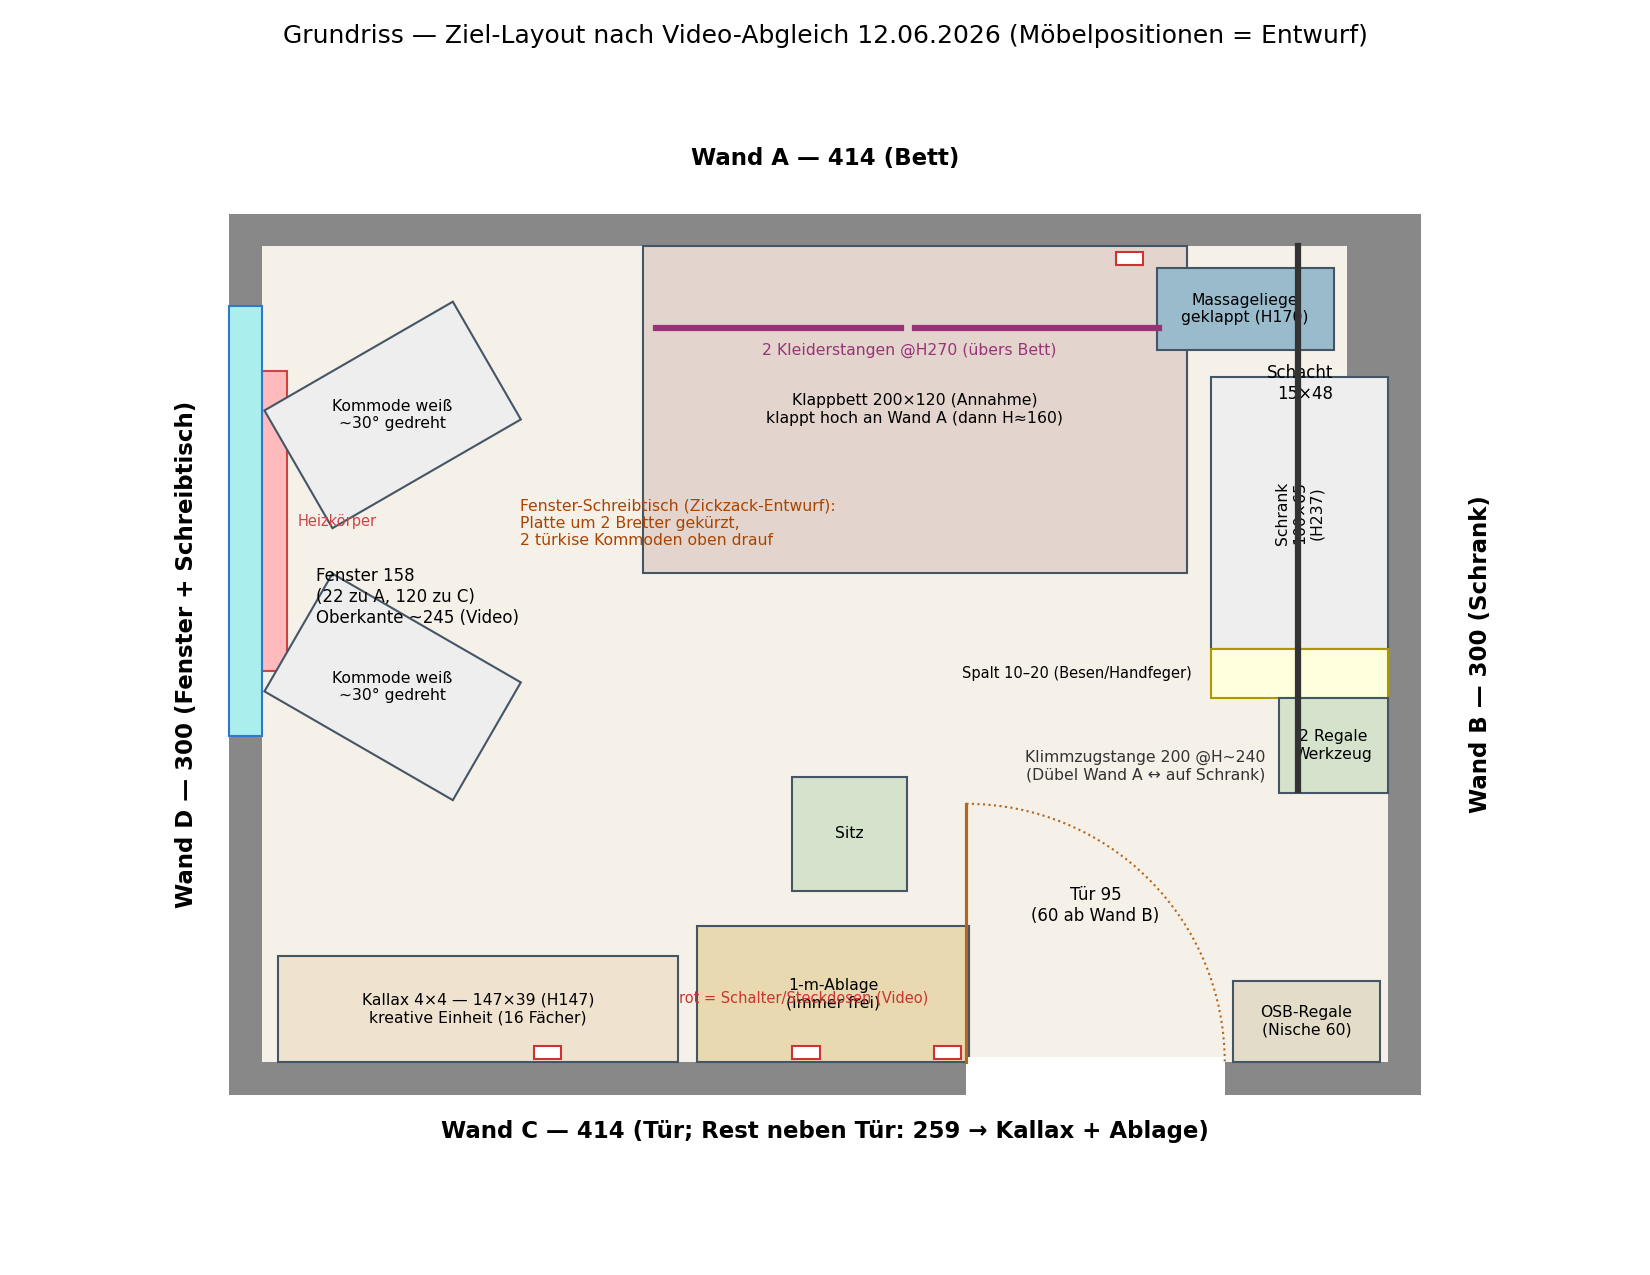
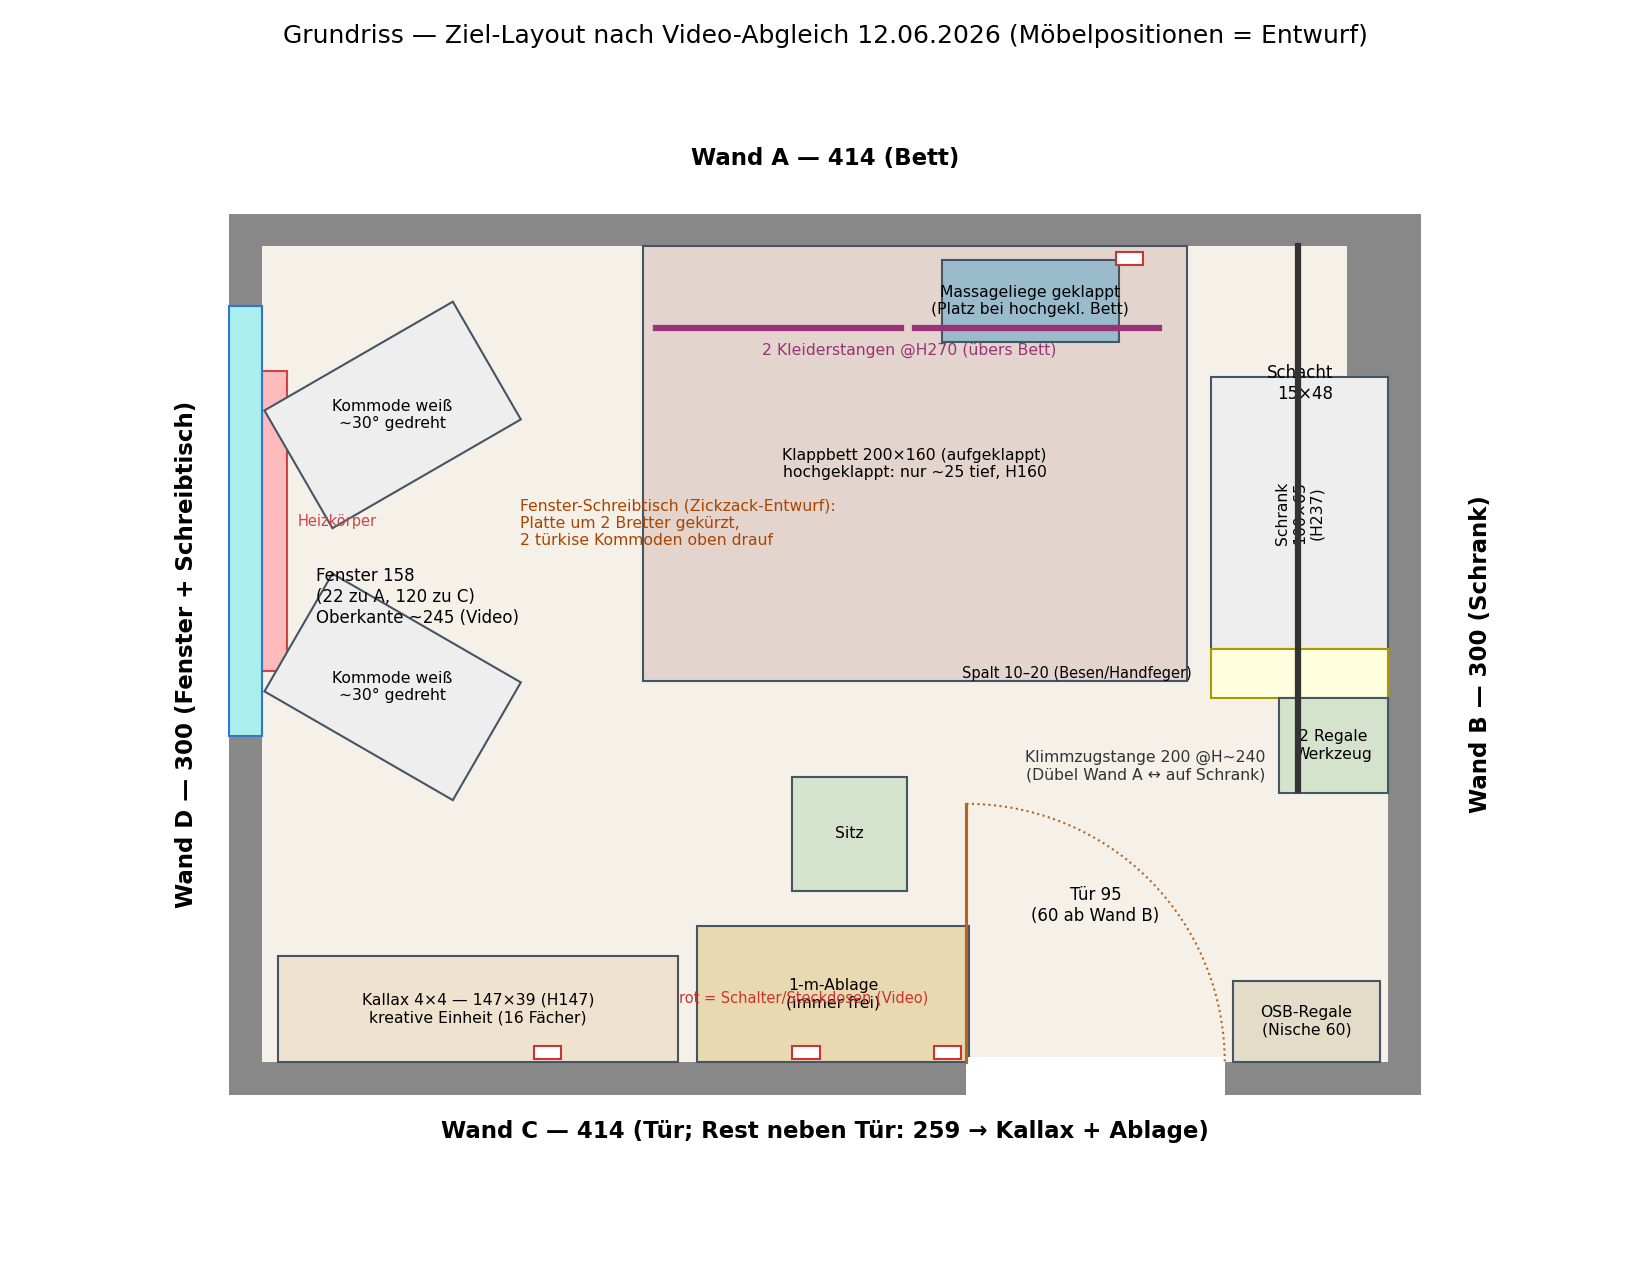
Maße nach Dimitris-Rückfragen final: Bett 200x160, türkis 40x50x55, Schrank 100
- Klappbett-Grundflaeche auf 200x160 gesetzt (war Annahme 120). Doppelnutzungs-
  Hinweis: hochgeklappt nur ~25 tief -> Flaeche frei fuer Massageliege + Stange.
- Tuerkise Kommode 40x50x55 bestaetigt (Video-Eindruck groesser war Perspektive).
- Grosser Schrank 100 breit bestaetigt; Spiegel ist auf die Schranktuer geklebt.
- masse.md: 3 offene Punkte aufgeloest, Massageliege im Grundriss neu platziert.

Changed region(s): [[0.3709, 0.4282, 0.7418, 0.5506], [0.5564, 0.1835, 0.8345, 0.2753], [0.4636, 0.3059, 0.6491, 0.3976]]

diff --git a/renovierung/index.html b/renovierung/index.html
@@ -166,11 +166,11 @@ function rotBox(w, h, d, cx, y, cz, angleDeg, mat, parent = room) {
 // Klappbett an Wand A (Video: hochklappbar, Lattenrost auf Holzbalken, Matratze ~15;
 // hochgeklappt ~160 hoch. Grundfläche ANNAHME 200×120). „Ganz ran" an Wand A,
 // rechtes Ende links neben der Klimmzugstange; Ecke D/A bleibt frei für den Fenster-Schreibtisch.
-const bedX = 1.40, bedL = 2.0, bedW = 1.2;
+const bedX = 1.40, bedL = 2.0, bedW = 1.6;                    // 200×160 (bestätigt)
 box(bedL, .22, bedW, bedX, 0, 0, matWood);                   // Holzbalken + Lattenrost
 box(bedL - .04, .15, bedW - .04, bedX + .02, .22, .02,
   new THREE.MeshStandardMaterial({ color: 0xdde6f0 }));      // Matratze ~15
-label('Klappbett 200×120 (Annahme) — klappt hoch an Wand A, dann H≈160', bedX + 1.0, .65, .6, true);
+label('Klappbett 200×160 — aufgeklappt. Hochgeklappt: nur ~25 tief, 160 hoch an Wand A', bedX + 1.0, .5, .8);
 
 // 2 Kleiderstangen @270 übers Bett (je ~90, nebeneinander), 30 von Wand A
 const matRail = new THREE.MeshStandardMaterial({ color: 0x884466, metalness: .6, roughness: .3 });
@@ -203,9 +203,10 @@ pull.position.set(RX - .33, 2.42, 1.0);
 room.add(pull);
 label('Klimmzugstange 200 Ø5 @~240: Dübel Wand A ↔ liegt auf Schrank (Entwurf)', RX - .33, 2.58, .8, true);
 
-// Massageliege geklappt (65 breit, klappbar auf 170) zwischen Wand A und Schrank, unter der Stange (Ton 11:33)
-box(.65, 1.70, .30, RX - .85, 0, .08, new THREE.MeshStandardMaterial({ color: 0x3a5a7a }));
-label('Massageliege geklappt 65×~30 H170 (Entwurf)', RX - .55, 1.85, .25, true);
+// Massageliege geklappt (65 breit, klappbar auf 170) — Platz dafür entsteht, wenn das
+// Bett hochgeklappt ist (Ton 11:33: "zwischen Wand und Schrank, darüber die Klimmzugstange")
+box(.65, 1.70, .30, 2.55, 0, .05, new THREE.MeshStandardMaterial({ color: 0x3a5a7a }));
+label('Massageliege geklappt 65×30 H170 — Platz bei hochgeklapptem Bett (Entwurf)', 2.55, 1.85, .2, true);
 
 // Kallax 4×4 (147×39×147, 16 Fächer) → Ziel: Wand C („kreative Einheit")
 box(1.47, 1.47, .39, .06, 0, RZ - .39, matKallax);

diff --git a/renovierung/grundriss.py b/renovierung/grundriss.py
@@ -51,8 +51,8 @@ def moebel(x, y, w, h, label, color="#cdd8e3", rot_label=False, angle=0):
 # --- Ziel-Layout (Video-Abgleich 12.06.2026; Positionen = ENTWURF) ---
 
 # Klappbett an Wand A („ganz ran"), rechtes Ende links neben der Klimmzugstange;
-# Ecke D/A bleibt frei für den Fenster-Schreibtisch. Grundfläche Annahme 200×120
-moebel(140, 0, 200, 120, "Klappbett 200×120 (Annahme)\nklappt hoch an Wand A (dann H≈160)", "#e3d5cd")
+# Ecke D/A bleibt frei für den Fenster-Schreibtisch. Grundfläche 200×160 (bestätigt)
+moebel(140, 0, 200, 160, "Klappbett 200×160 (aufgeklappt)\nhochgeklappt: nur ~25 tief, H160", "#e3d5cd")
 
 # 2 Kleiderstangen @H270 übers Bett
 ax.plot([145, 235], [30, 30], color="#937", lw=3, zorder=5)
@@ -70,8 +70,8 @@ ax.plot([A - 33, A - 33], [0, 200], color="#333", lw=3, zorder=5)
 ax.annotate("Klimmzugstange 200 @H~240\n(Dübel Wand A ↔ auf Schrank)", (A - 45, 196), fontsize=7.5,
             ha="right", color="#333")
 
-# Massageliege geklappt zwischen Wand A und Schrank (Ton 11:33)
-moebel(A - 85, 8, 65, 30, "Massageliege\ngeklappt (H170)", "#9bc")
+# Massageliege geklappt — Platz entsteht bei hochgeklapptem Bett (Ton 11:33)
+moebel(250, 5, 65, 30, "Massageliege geklappt\n(Platz bei hochgekl. Bett)", "#9bc")
 
 # Kallax 4×4 an Wand C — kreative Einheit; rechts 1-m-Ablage (immer frei) + Sitz
 moebel(6, B - 39, 147, 39, "Kallax 4×4 — 147×39 (H147)\nkreative Einheit (16 Fächer)", "#efe3cf")

diff --git a/renovierung/masse.md b/renovierung/masse.md
@@ -39,12 +39,12 @@ _Video-Bestätigung: Dimitris benennt die Wände am Video-Ende (11:33–12:01) i
 
 | Möbel | B × T × H | Quelle / Anmerkung |
 |---|---|---|
-| **Bett (hochklappbar!)** | Grundfläche **Annahme ~200 × 100–140**; hochgeklappt ~160 hoch | Video: KEIN Hochbett. Lattenrost auf Holzbalken, Matratze ~15 cm, klappt gegen Wand A hoch, Seil-Sicherung an der Klimmzugstange. Im Video zerlegt/hochgeklappt (2–3 Lattenpaneele à ~200×100 lehnen an Wand A), Matratze derzeit am Boden |
+| **Bett (hochklappbar!)** | **200 × 160** (✅ Dimitris 13.06.); hochgeklappt ~160 hoch, nur ~25 tief | Video: KEIN Hochbett. Lattenrost auf Holzbalken, Matratze ~15 cm, klappt gegen Wand A hoch, Seil-Sicherung an der Klimmzugstange. **Doppelnutzung:** aufgeklappt belegt es 200×160, hochgeklappt wird die Fläche frei → Platz für Massageliege + Klimmzugstange darüber |
 | IKEA-Würfelregal | **Kallax 4×4 = 16 Fächer** ≈ 147 × 39 × 147 | Video bestätigt 16 Fächer; Dimitris-Schätzung 135 B × 145 H, Standardmaß 147×147, Tiefe 38 gemessen ✓. Steht aktuell auf weißem 2-türigem Unterschrank (~60–65 hoch) → Oberkante ~210 |
 | Regal unter dem Kallax | ~135–147 × ? × ~60–70 | Video/Ton: „ungefähr die Hälfte, ~70 hoch, Breite auch 1,35" |
-| Großer weißer Schrank (Wand B) | 100 × 65 × 237 | Chat. Video: 2-türig, Spiegelfront-Anteil; Gesamtblock wirkt ~150 breit → vermutlich Schrank (100) + separater Anlehn-Spiegel (~50) — **offene Frage** |
+| Großer weißer Schrank (Wand B) | 100 × 65 × 237 | Chat (✅ Dimitris 13.06.: **100 breit**; der Spiegel ist auf die Schranktür geklebt — kein separates Möbel) |
 | Weiße Kommode | 80 × 50 × 78 | Chat. Video: **2 Stück** (MALM-artig, je 3 Schubladen), als Schreibtisch-Unterbau an Wand C; evtl. eine 3. verdeckt |
-| Türkise Kommode | 40 × 50 × 55 | Chat. Video: **2 Stück AUF der Schreibtischplatte** (mit Etiketten). ⚠ Mehrere Analyse-Agenten schätzen sie größer (~50–60 B, 60–70 H) — **Maß-Widerspruch, mit Dimitris klären** |
+| Türkise Kommode | 40 × 50 × 55 | Chat (✅ Dimitris 13.06. bestätigt — Video-Eindruck „größer" war Perspektivtäuschung). Video: **2 Stück AUF der Schreibtischplatte** (mit Etiketten) |
 | Schreibtisch (Eigenbau) | Platte **200 lang** (Ton) + **30-cm-Modul** dahinter gesteckt (separat); Tiefe ~65 (Ton); auf den 2 weißen Kommoden, Paletten-Rückwand | Video/Ton. Bild-Schätzung der Platte eher 250–260 — evtl. inkl. Modul + Überstand |
 | Bücher-Wandregale über Schreibtisch | ~250 breit, 3–4 Ebenen, Tiefen **30 / 20 / 20** (Ton); Oberkante ~230–250 | Video/Ton. Oberste Ebene war für die Katze → „komplett wegdenken" |
 | Massageliege (elektrisch, Räder) | **65 breit**, halbgeklappt ~200 lang, klappbar auf **180 / 170** | Ton. Steht vor dem Fenster (Wand D), blockiert Heizkörper |
@@ -79,12 +79,11 @@ _Video-Bestätigung: Dimitris benennt die Wände am Video-Ende (11:33–12:01) i
 5. ~~Klimmzugstange~~ → 200 lang Ø 5, diagonal über Ecke A/B (Ist), Ziel: parallel Schrank↔Wand A
 6. ~~Heizkörper/Steckdosen/Lichtschalter~~ → siehe Elektrik-Tabelle
 
-## Offene Punkte (neu, mit Dimitris klären)
+## Offene Punkte (mit Dimitris zu klären)
 
-1. **Türkise Kommoden**: Chat-Maß 40×50×55 vs. Video-Eindruck ~50–60×60–70 — welches stimmt? (Betrifft Fenster-Schreibtisch-Planung.)
-2. **Bett-Grundfläche**: exakte Länge × Breite im aufgeklappten Zustand? (Paneele deuten auf ~200 Länge; Breite 100? 140?)
-3. **Großer weißer Schrank**: ist der Spiegel eine Schranktür (Schrank dann ~150 breit?) oder separater Anlehn-Spiegel neben dem 100er-Schrank?
-4. **„Billy-/Billigregal"** (Ton 9:52, beide Whisper-Modelle unsicher): Welches Regal ist gemeint, auf das die Schreibtisch-Regaleinheit links oben drauf soll — das Kallax?
-5. **Kallax-Unterschrank**: kommt der weiße 2-türige Unterschrank mit an Wand C (Kallax dann Oberkante ~210) oder steht das Kallax künftig am Boden?
-6. Schacht 15×48: im Video nie sichtbar — bei Gelegenheit Foto/Bestätigung.
-7. Fenster-Oberkante: bei Gelegenheit nachmessen (Video-Schätzung ±10 cm).
+1. **„Billy-/Billigregal"** (Ton 9:52, beide Whisper-Modelle unsicher): Welches Regal ist gemeint, auf das die Schreibtisch-Regaleinheit links oben drauf soll — das Kallax?
+2. **Kallax-Unterschrank**: kommt der weiße 2-türige Unterschrank mit an Wand C (Kallax dann Oberkante ~210) oder steht das Kallax künftig am Boden?
+3. Schacht 15×48: im Video nie sichtbar — bei Gelegenheit Foto/Bestätigung.
+4. Fenster-Oberkante: bei Gelegenheit nachmessen (Video-Schätzung ±10 cm).
+
+_Geklärt am 13.06.: türkise Kommode = 40×50×55 · Bett-Grundfläche = 200×160 · Schrank = 100 breit (Spiegel auf der Tür)._
